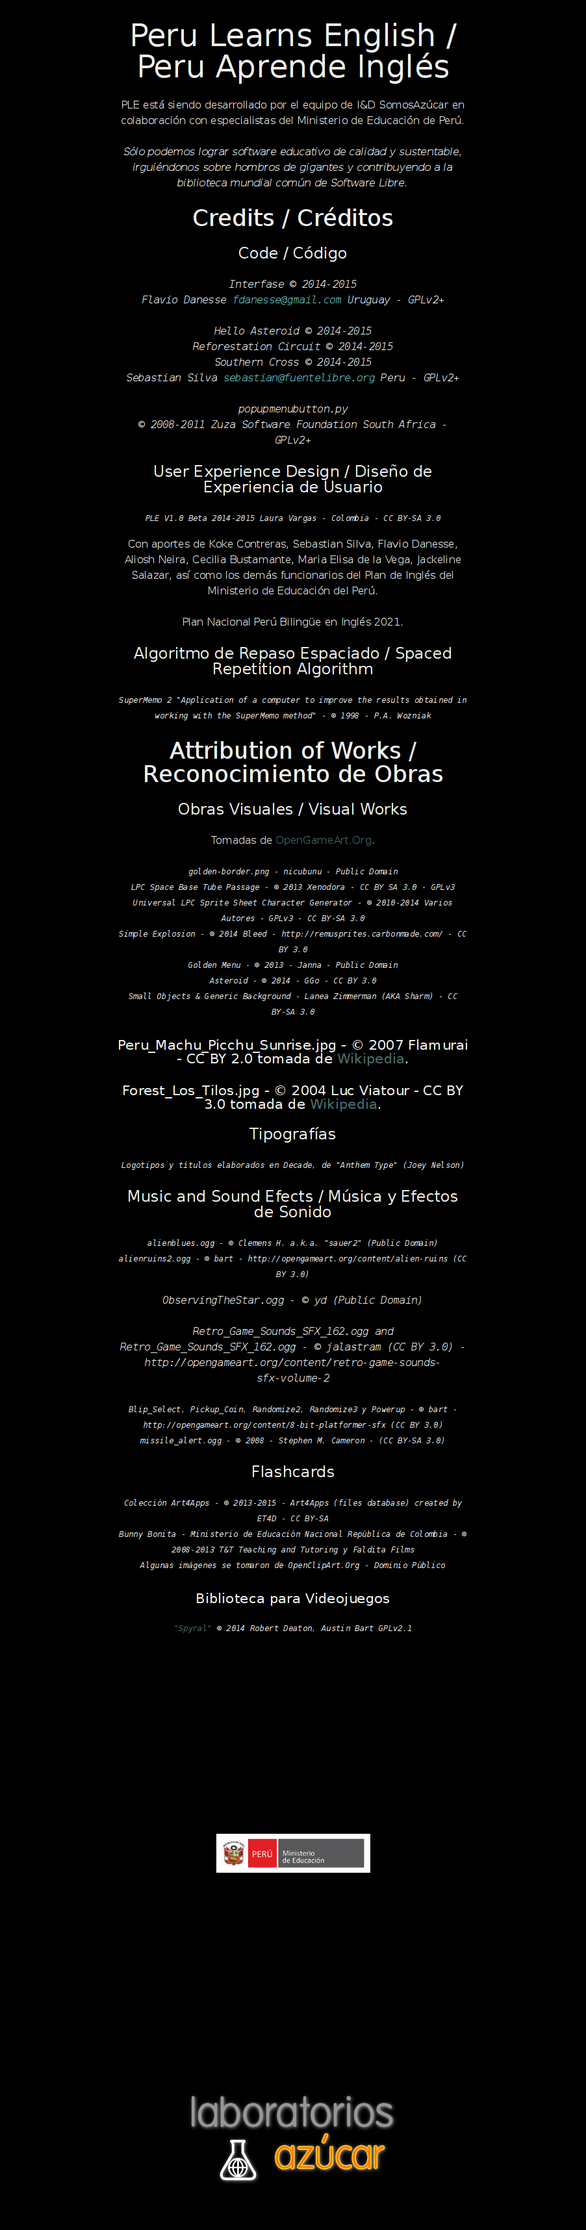
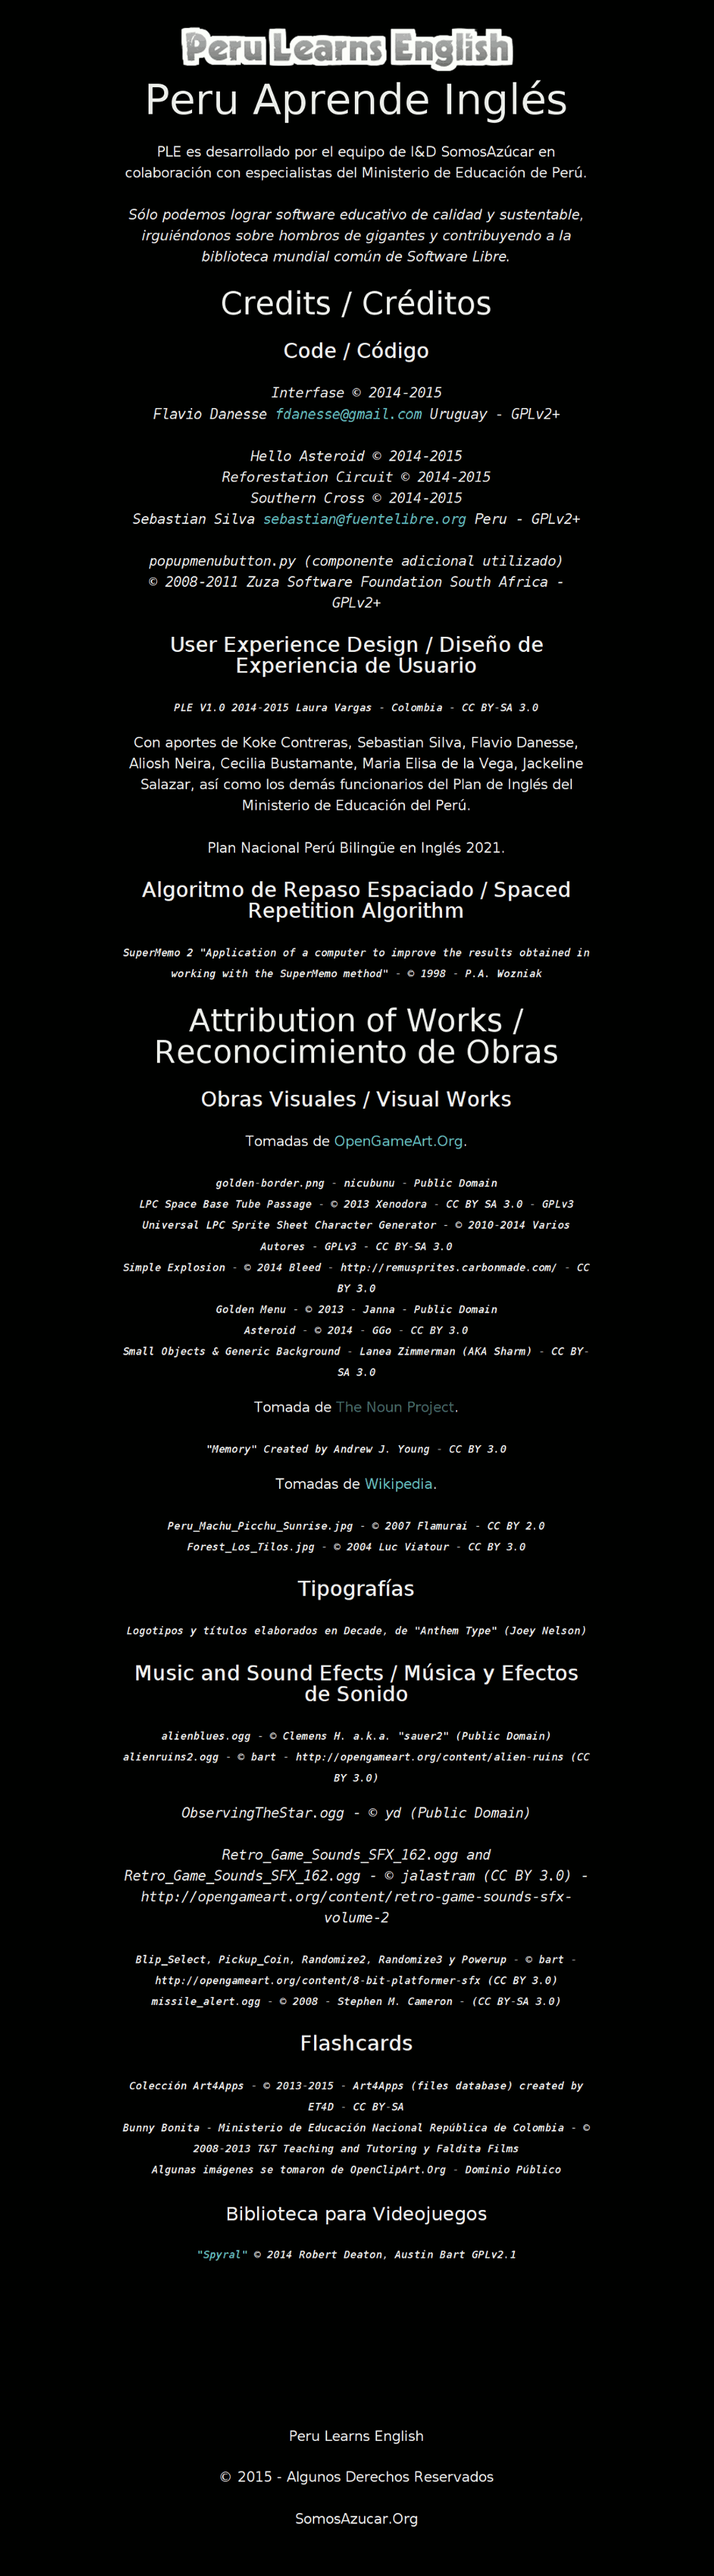
Actualiza créditos.

Changed region(s): [[0.1863, 0.0, 0.8071, 0.8727], [0.3104, 0.935, 0.6829, 0.9974], [0.7761, 0.7169, 0.8071, 0.748]]

diff --git a/mkcredits.py b/mkcredits.py
@@ -27,4 +27,4 @@ plantilla = Template(template)
 creditos = md.markdown(open("CREDITS.md").read())
 #creditos.decode("utf-8")
 
-open("CREDITS.html", "w").write(plantilla.render(credits=creditos))
+open("Docs/CREDITS.html", "w").write(plantilla.render(credits=creditos))

diff --git a/CREDITS.md b/CREDITS.md
@@ -1,7 +1,7 @@
-Peru Learns English / Peru Aprende Inglés
+![Peru Learns English](Imagenes/ple_disabled.png) <br> Peru Aprende Inglés
 =========================================
 
-PLE está siendo desarrollado por el equipo de I&D SomosAzúcar en colaboración con especialistas del Ministerio de Educación de Perú.
+PLE es desarrollado por el equipo de I&D SomosAzúcar en colaboración con especialistas del Ministerio de Educación de Perú.
 
 *Sólo podemos lograr software educativo de calidad y sustentable, irguiéndonos sobre hombros de gigantes y contribuyendo a la biblioteca mundial común de Software Libre.*
 
@@ -18,12 +18,12 @@ Credits / Créditos
   Southern Cross © 2014-2015<br>
   Sebastian Silva <sebastian@fuentelibre.org> Peru - GPLv2+
 
-* popupmenubutton.py<br>
+* popupmenubutton.py (componente adicional utilizado)<br>
   © 2008-2011 Zuza Software Foundation South Africa - GPLv2+
 
 ### User Experience Design / Diseño de Experiencia de Usuario ###
 
-* PLE V1.0 Beta 2014-2015 Laura Vargas - Colombia - CC BY-SA 3.0
+* PLE V1.0 2014-2015 Laura Vargas - Colombia - CC BY-SA 3.0
 
 Con aportes de Koke Contreras, Sebastian Silva, Flavio Danesse, Aliosh Neira, Cecilia Bustamante, Maria Elisa de la Vega, Jackeline Salazar, así como los demás funcionarios del Plan de Inglés del Ministerio de Educación del Perú.
 
@@ -48,8 +48,14 @@ Tomadas de [OpenGameArt.Org](http://opengameart.org).
 * Asteroid - © 2014 - GGo - CC BY 3.0
 * Small Objects & Generic Background - Lanea Zimmerman (AKA Sharm) - CC BY-SA 3.0
 
-#### Peru_Machu_Picchu_Sunrise.jpg - © 2007 Flamurai - CC BY 2.0 tomada de [Wikipedia](http://wikipedia.org/).
-#### Forest_Los_Tilos.jpg - © 2004 Luc Viatour - CC BY 3.0 tomada de [Wikipedia](http://wikipedia.org/).
+Tomada de [The Noun Project](http://thenounproject.com/).
+
+* "Memory" Created by Andrew J. Young - CC BY 3.0
+
+Tomadas de [Wikipedia](http://wikipedia.org/).
+
+* Peru_Machu_Picchu_Sunrise.jpg - © 2007 Flamurai - CC BY 2.0
+* Forest_Los_Tilos.jpg - © 2004 Luc Viatour - CC BY 3.0
 
 ### Tipografías
 
@@ -77,12 +83,9 @@ Tomadas de [OpenGameArt.Org](http://opengameart.org).
 
 <br><br><br>
 <br><br><br>
-<br><br><br>
-<br><br><br>
-![Ministerio de Educación](Imagenes/med.png)
-<br><br><br>
-<br><br><br>
-<br><br><br>
-<br><br><br>
-<br><br><br>
-![Laboratorios Azúcar](Imagenes/logo_labs.png)
+
+Peru Learns English
+
+© 2015 - Algunos Derechos Reservados
+
+SomosAzucar.Org
